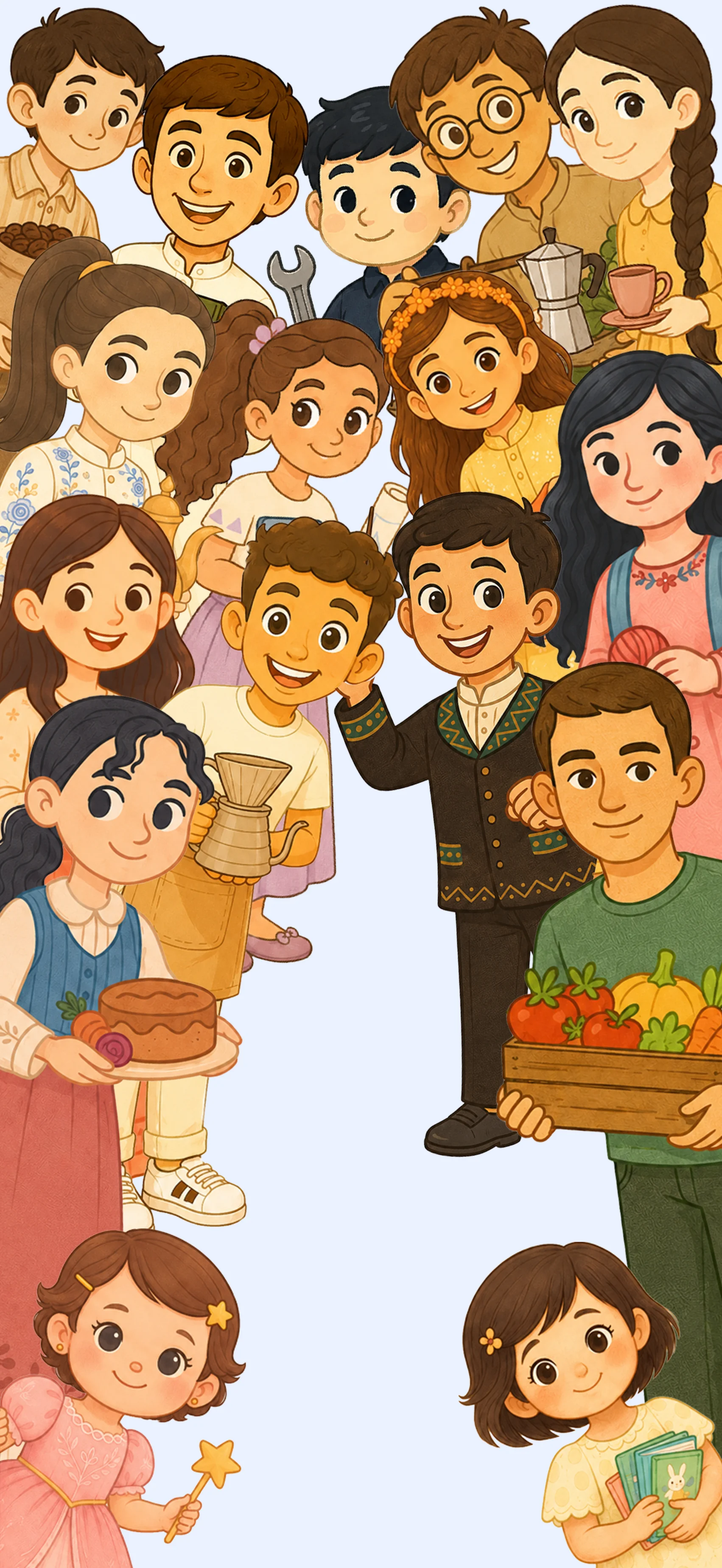
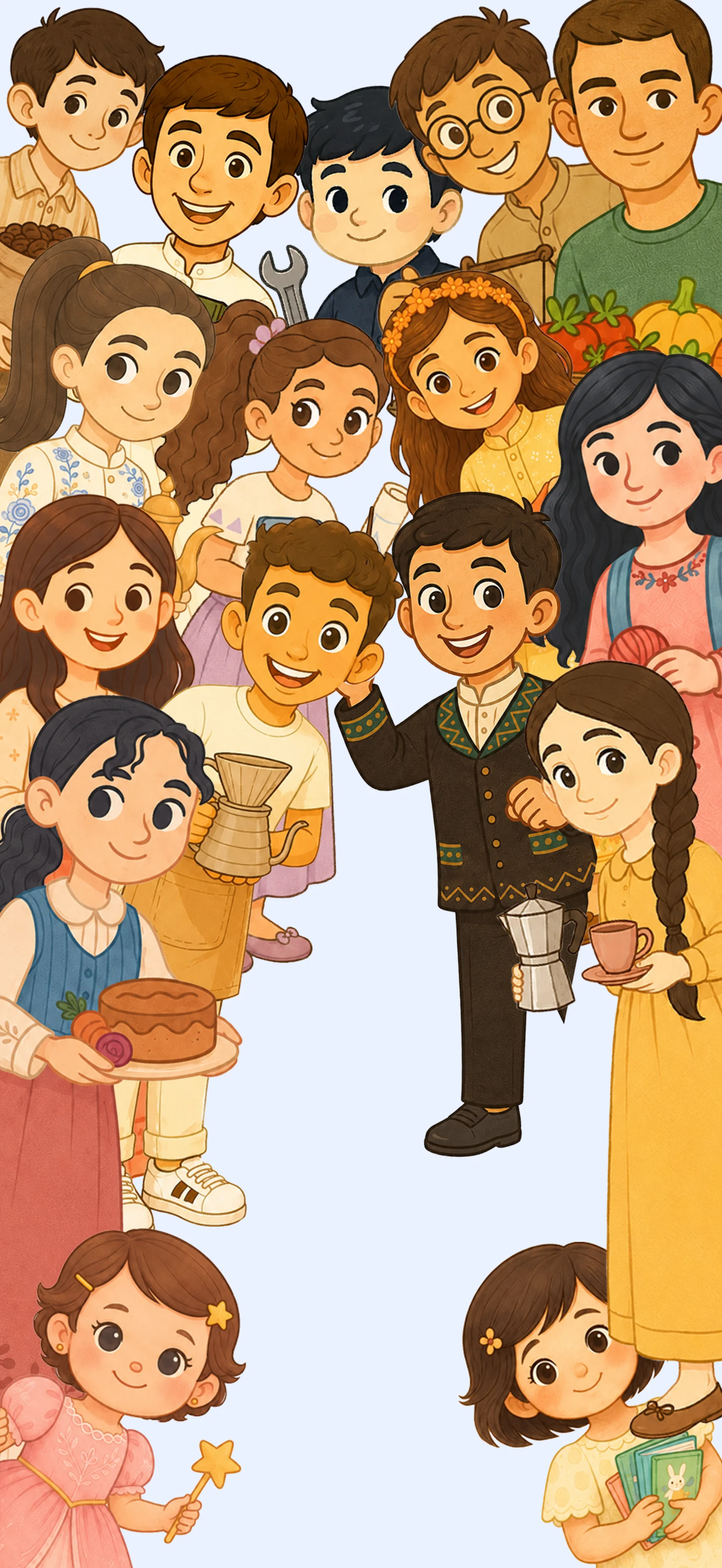
Update menu: new bg-back, fix front girls position on panel edge
- bg-back replaced with bg-back2 (510KB)
- bg-front bottom now locked exactly to panel top (var(--panel-h))
  so girls always sit right on the panel edge at any screen size
- Front image width: 58% → 75% (max 320px) to match reference scale

https://claude.ai/code/session_01LHmPDsVX5Rx2gfRq2vQdpm

Changed region(s): [[0.6851, 0.4049, 1.0, 0.9345], [0.7162, 0.0, 1.0, 0.2492], [0.3425, 0.0623, 0.6539, 0.218]]

diff --git a/src/pages/MenuPage.module.css b/src/pages/MenuPage.module.css
@@ -10,16 +10,17 @@
   overflow: hidden;
 }
 
-/* ── Front characters image — sits just above the panel ── */
+/* ── Front characters — bottom of image locked to top of panel ── */
 .front {
   position: absolute;
-  bottom: calc(var(--panel-h, 260px) - 20px);
+  bottom: var(--panel-h, 260px);
   left: 50%;
   transform: translateX(-50%);
-  width: 58%;
-  max-width: 260px;
+  width: 75%;
+  max-width: 320px;
   pointer-events: none;
   z-index: 3;
+  display: block;
 }
 
 /* ── Bottom panel ── */
